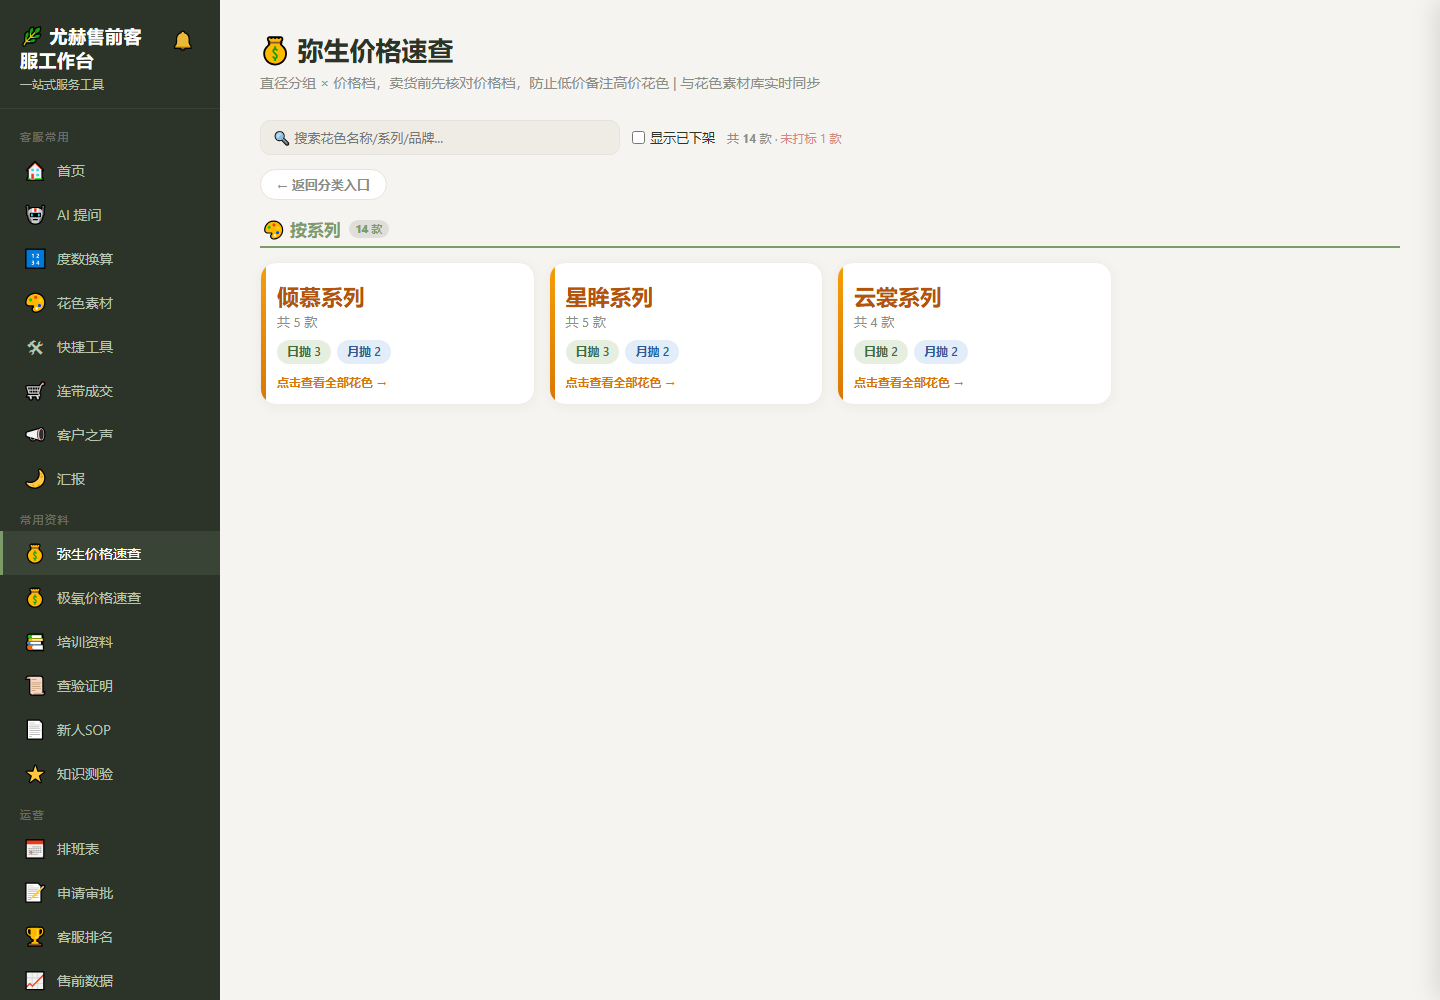
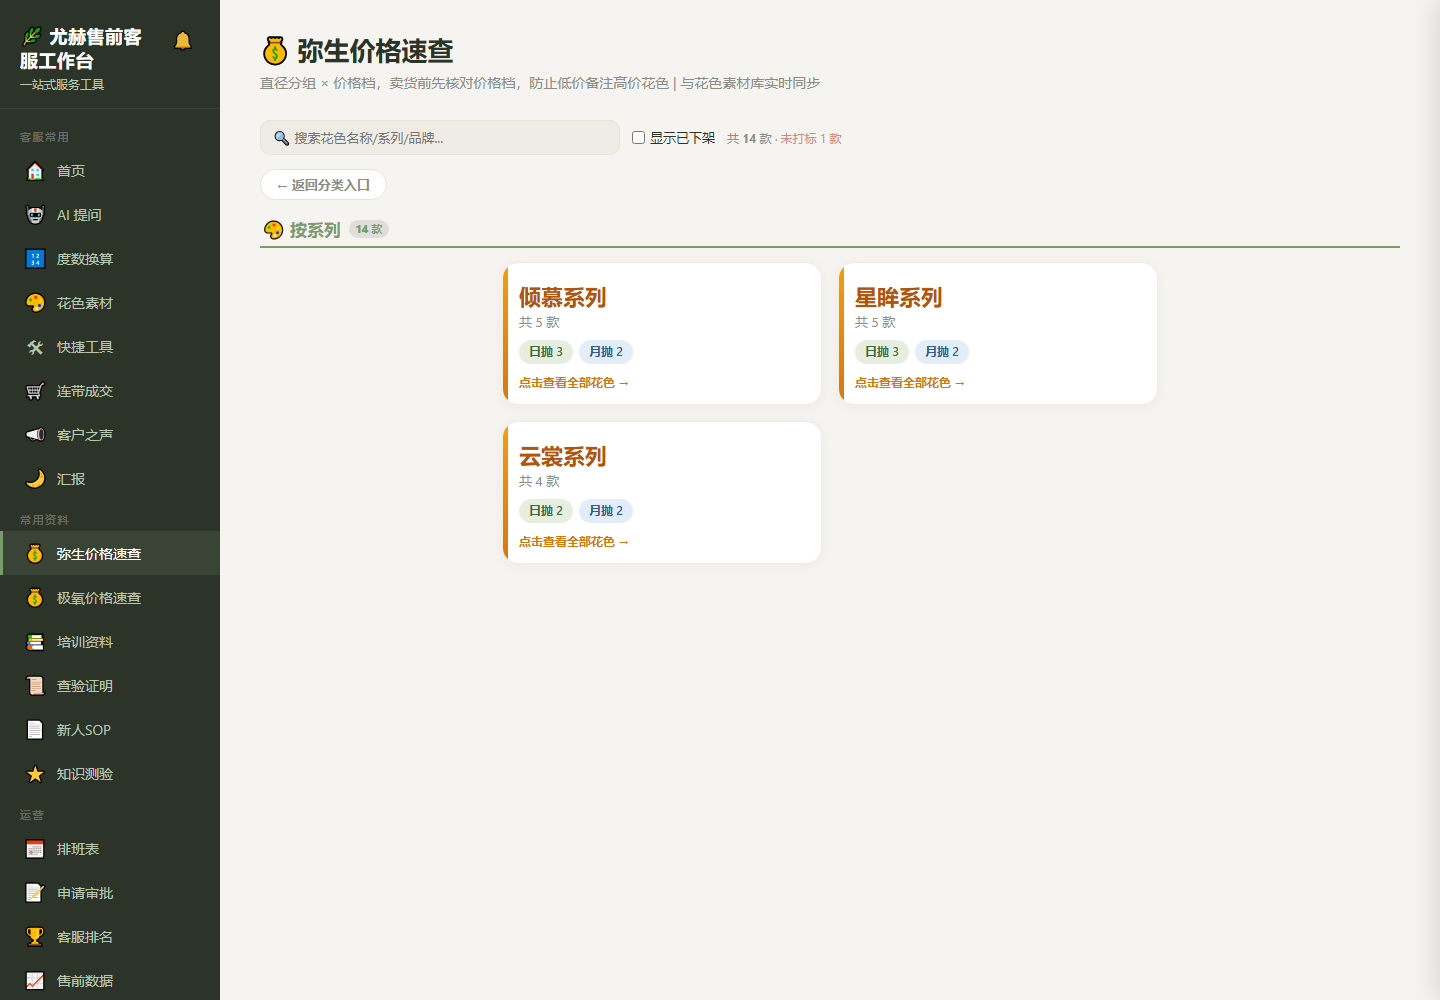
style: 价格速查第一层分类卡一行 2 个、整体水平居中，移动端单列自适应

diff --git a/index.html b/index.html
@@ -753,7 +753,8 @@ body {
 .pp-tiercard.l1 .pp-tiercard-sub{font-size:14px;margin:10px 0 14px}
 .pp-tiercard.l1 .pp-tiercard-enter{color:var(--c)}
 .pp-tiercard.l1:hover{border-color:var(--c);box-shadow:0 8px 18px color-mix(in srgb,var(--c) 15%,transparent)}
-.pp-tiercards{display:grid;grid-template-columns:repeat(auto-fill,minmax(220px,1fr));gap:14px}
+.pp-tiercards{display:grid;grid-template-columns:repeat(2,minmax(0,320px));gap:16px;justify-content:center;padding:0 10px}
+@media (max-width:720px){.pp-tiercards{grid-template-columns:minmax(0,320px)}}
 .pp-tiercard{position:relative;background:#fff;border:1px solid var(--border-soft);border-radius:16px;padding:18px 16px 14px;cursor:pointer;transition:all .2s;box-shadow:var(--shadow);overflow:hidden}
 .pp-tiercard:hover{transform:translateY(-3px);box-shadow:var(--shadow-md);border-color:#f59e0b}
 .pp-tiercard::before{content:'';position:absolute;left:0;top:0;bottom:0;width:5px;background:linear-gradient(180deg,#f59e0b,#d97706)}
